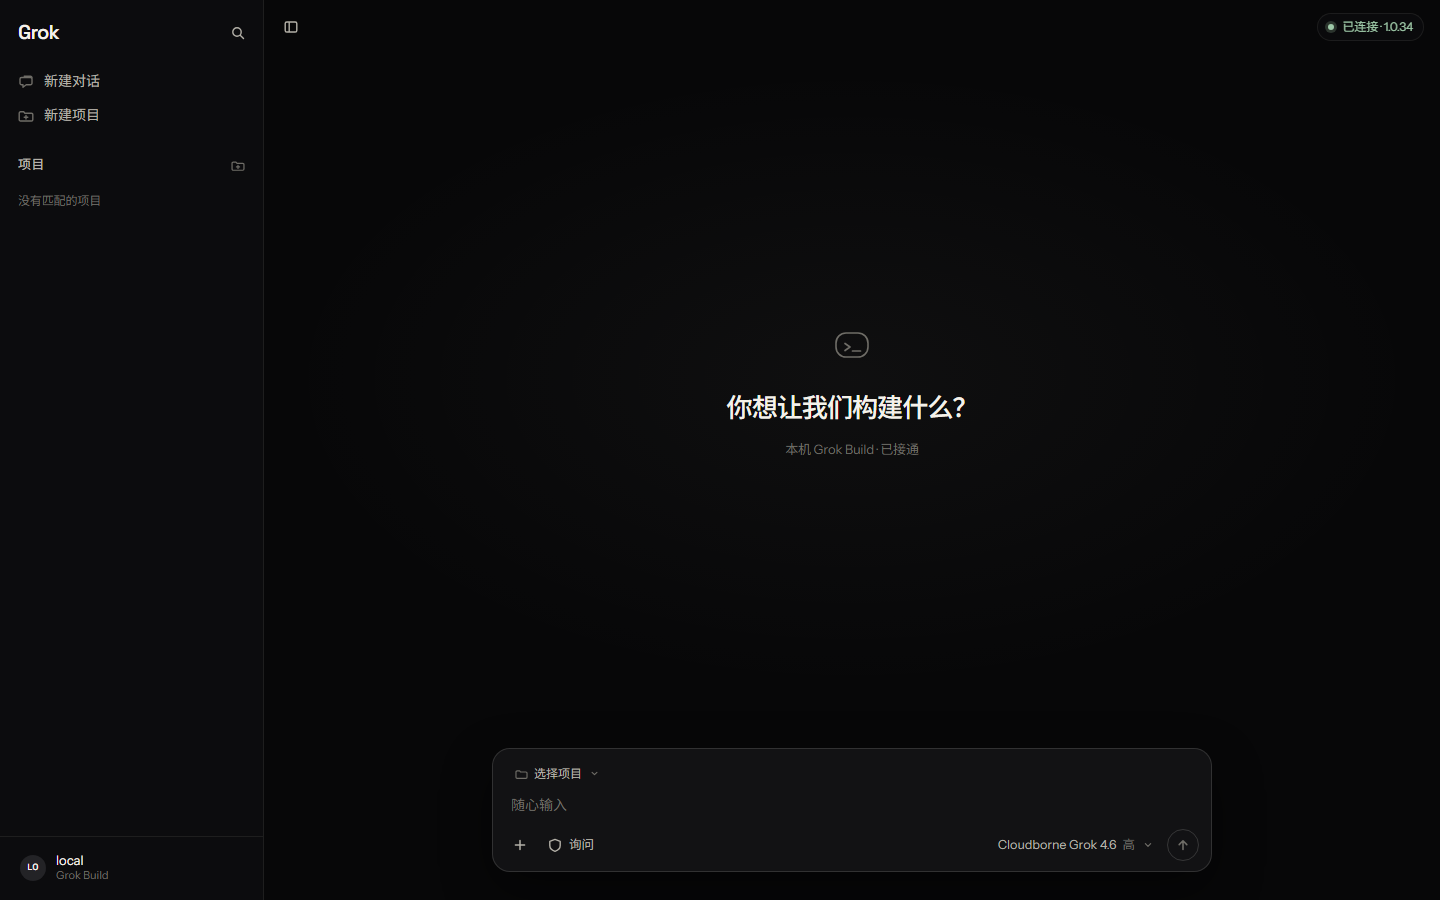
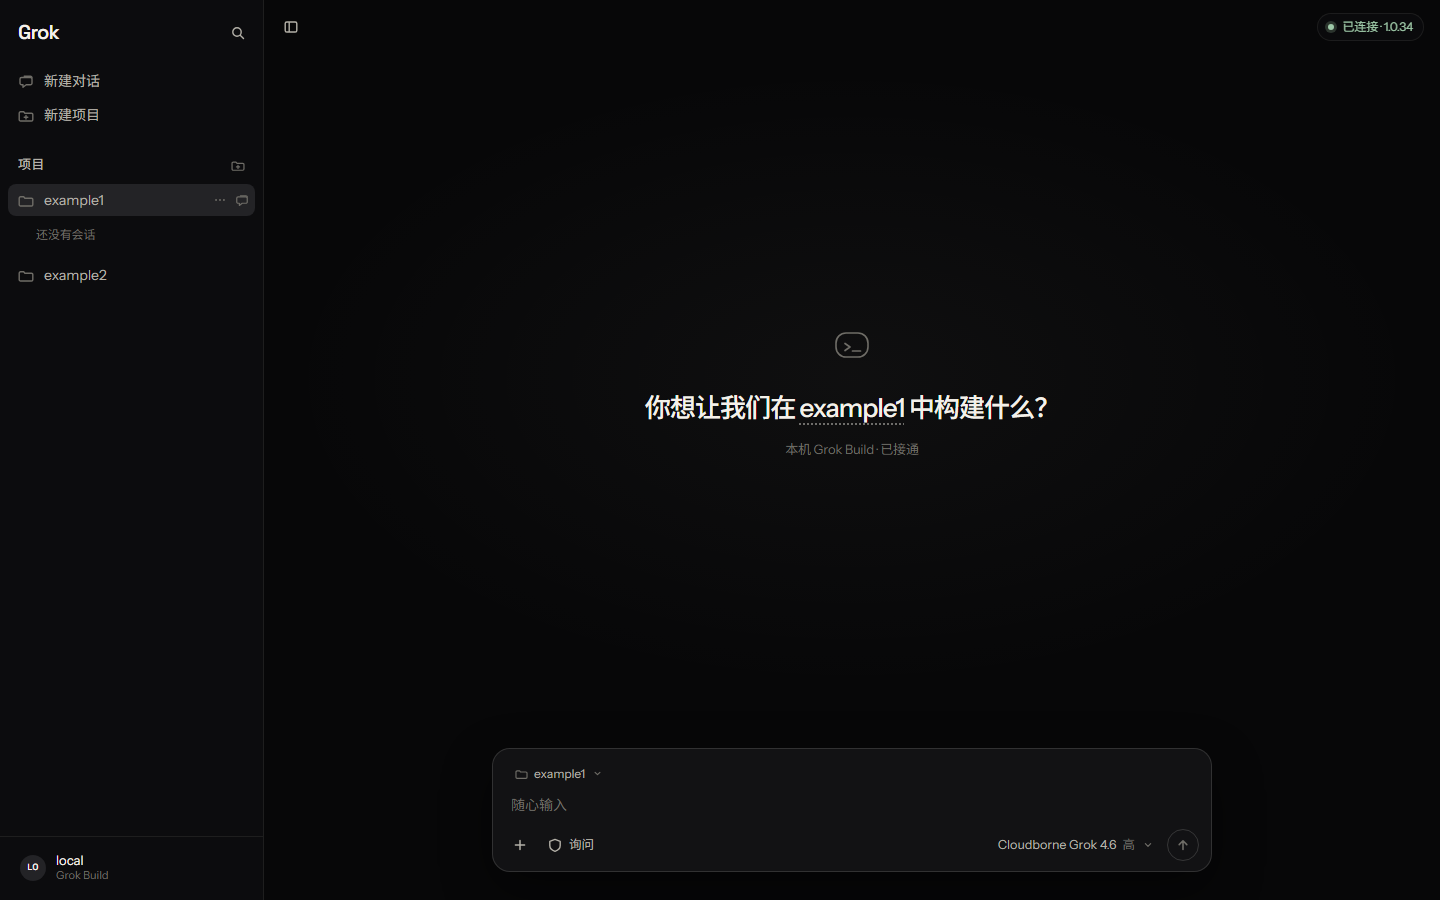
chore(release): use example1/example2 placeholders in the project list

Changed region(s): [[0.4375, 0.4356, 0.7188, 0.4667], [0.0, 0.2178, 0.0625, 0.3111], [0.375, 0.84, 0.4062, 0.8711]]

diff --git a/src/data/seed.ts b/src/data/seed.ts
@@ -1,4 +1,19 @@
 import type { Project } from '../types'
 
-/** Public/release seed: no sample projects or conversations. */
-export const SEED_PROJECTS: Project[] = []
+/** Public placeholders only. Do not put real machine paths here. */
+export const SEED_PROJECTS: Project[] = [
+  {
+    id: 'proj_example1',
+    name: 'example1',
+    path: '~/example1',
+    branch: '',
+    branches: [],
+  },
+  {
+    id: 'proj_example2',
+    name: 'example2',
+    path: '~/example2',
+    branch: '',
+    branches: [],
+  },
+]

diff --git a/README.md b/README.md
@@ -23,7 +23,7 @@ npm run dev
 
 浏览器打开终端里的地址（默认 `http://localhost:5173/`）。顶栏应显示 **已连接** 和 Grok Build 版本号。
 
-首次打开是空工作台：点 **新建项目** 选本机文件夹，或直接发消息（工作目录为用户主目录）。
+首次打开会看到占位项目 `example1` / `example2`。点 **新建项目** 换成你自己的文件夹，或删掉这两个例子。
 
 ### 生产预览
 
